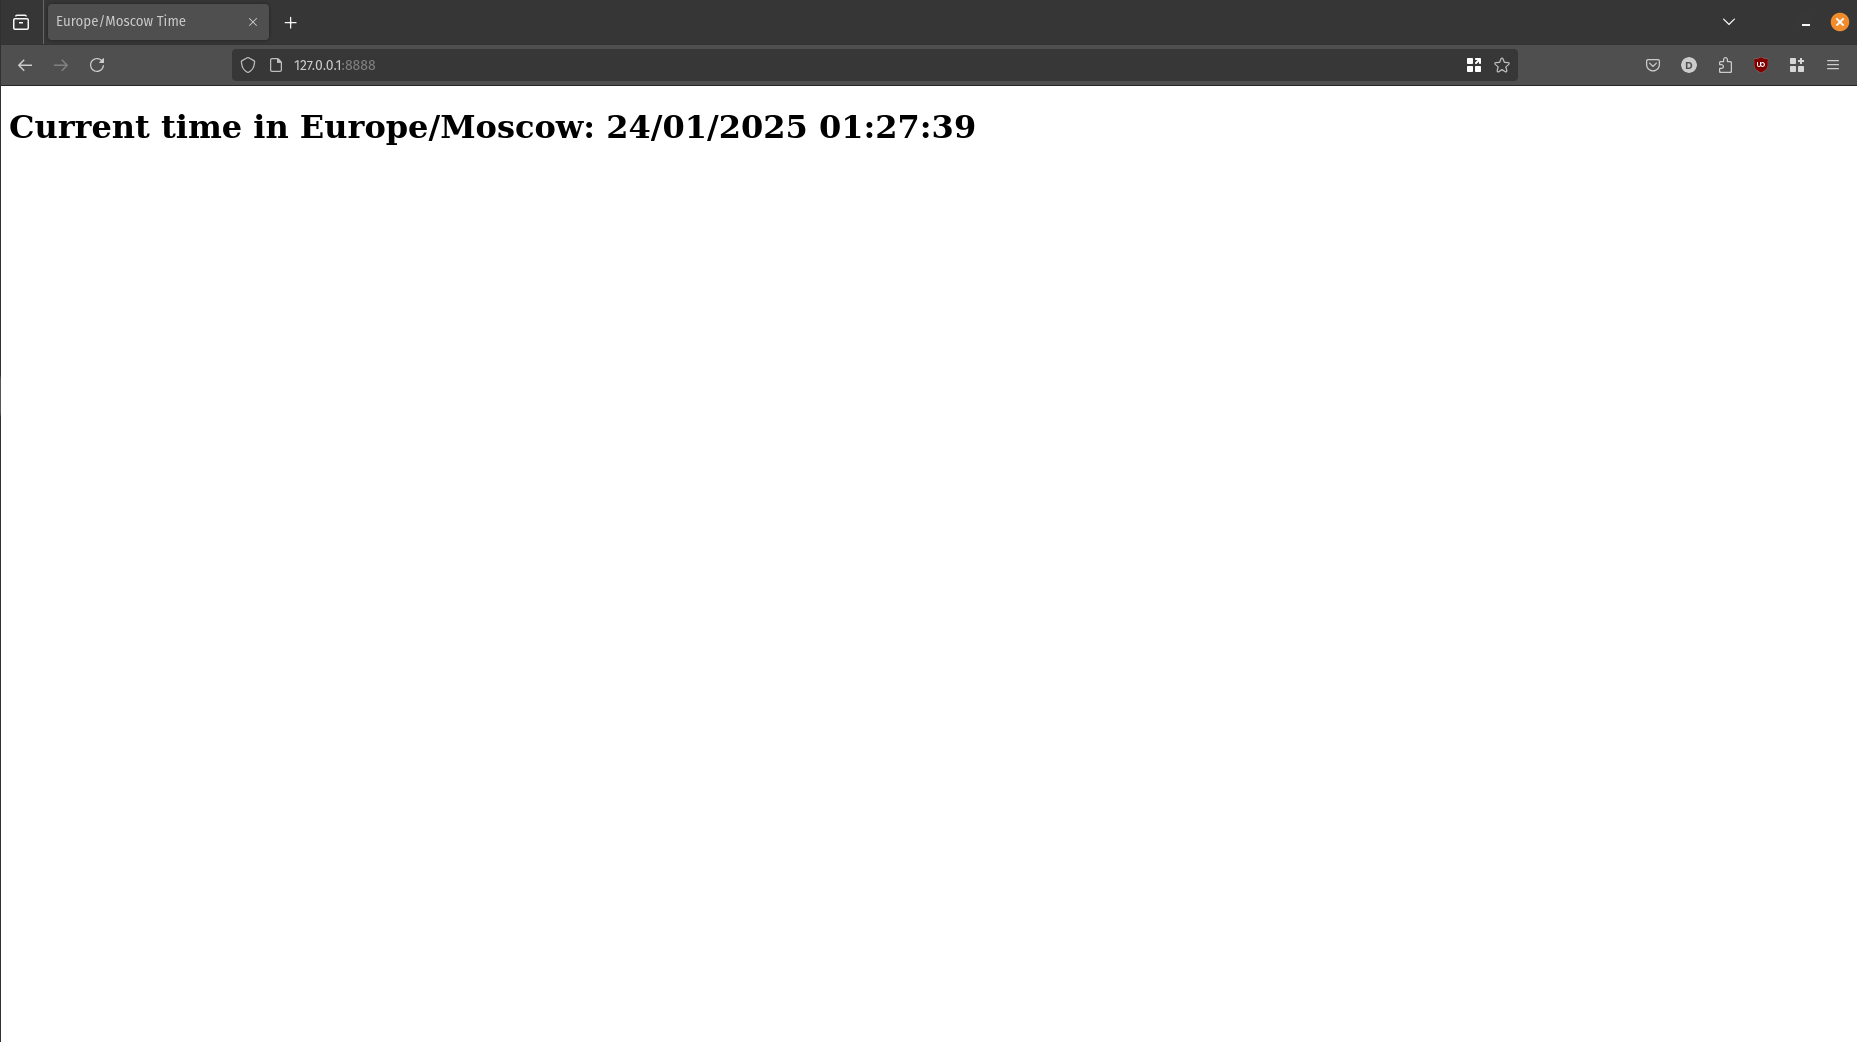
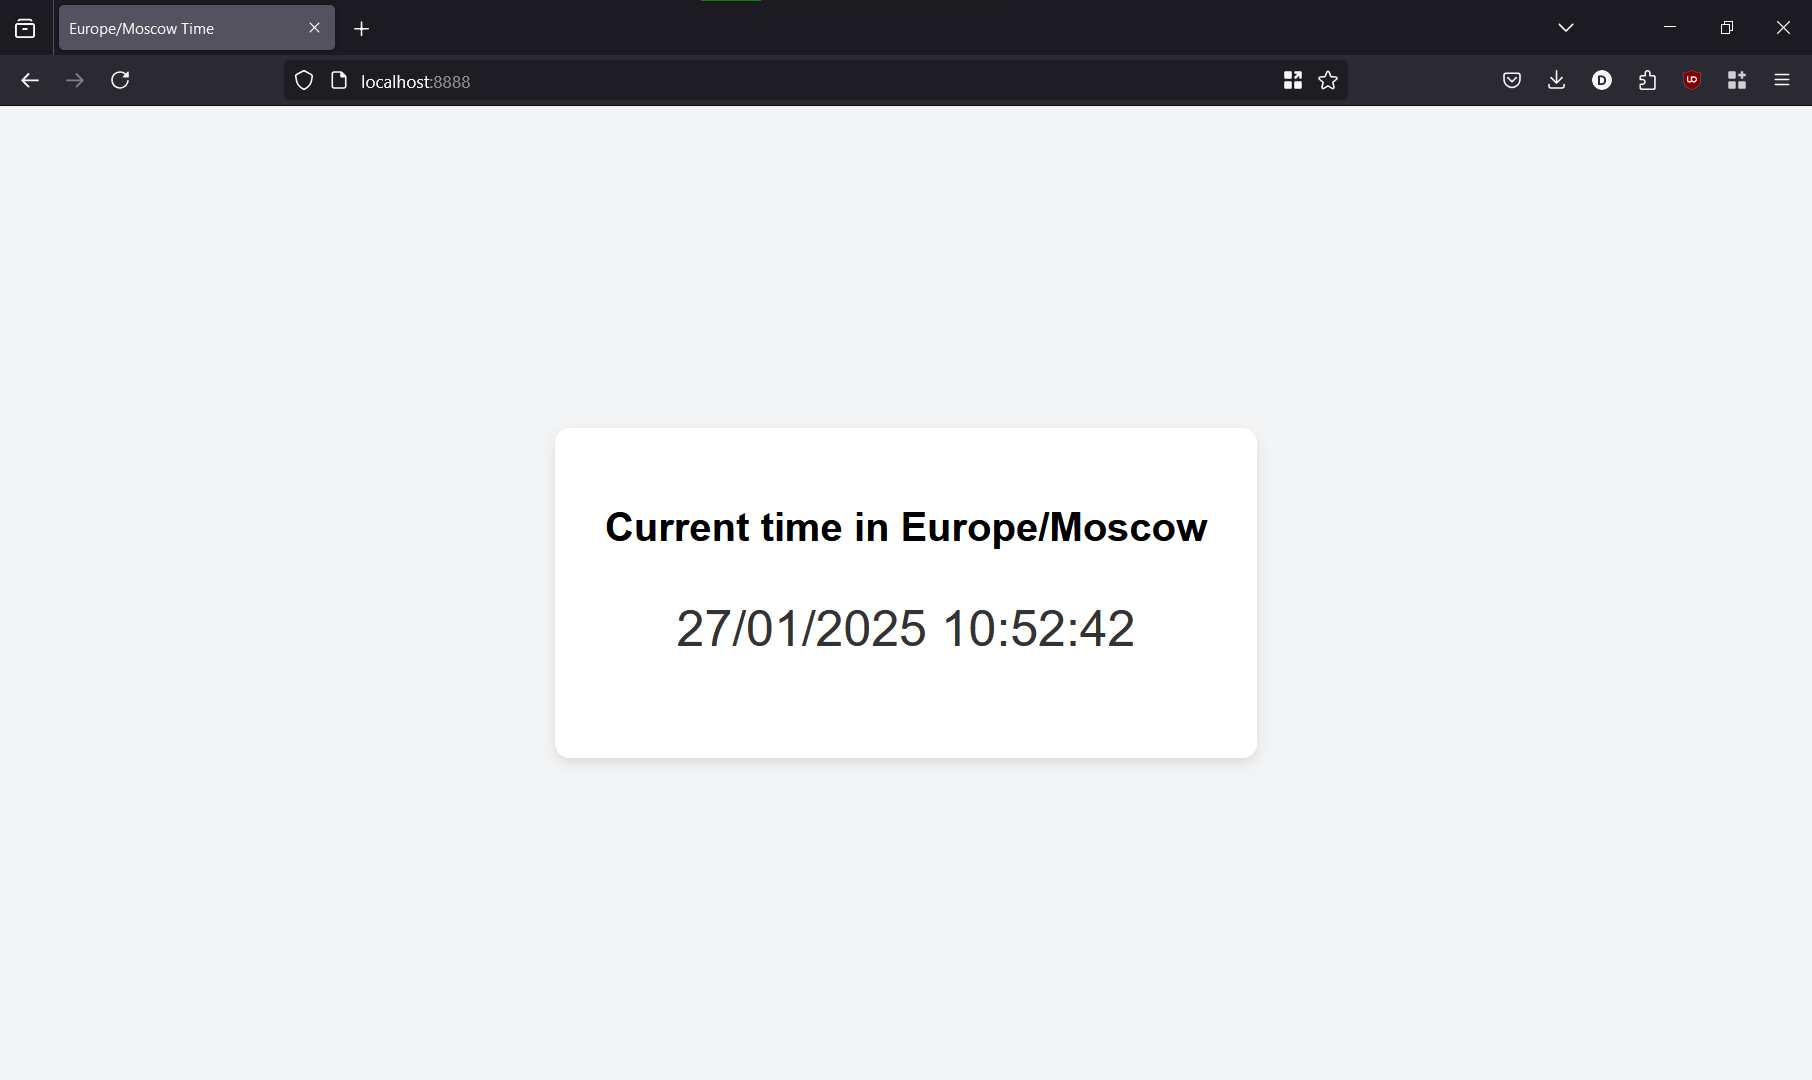
Changed style for time

diff --git a/app_python/src/templates/index.html b/app_python/src/templates/index.html
@@ -11,7 +11,7 @@
 <body>
     <div class="container">
         <h1>Current time in {{ timezone }}</h1>
-        <p>{{ formatted_time }}</p>
+        <p id="formatted_time">{{ formatted_time }}</p>
     </div>
 </body>
 

diff --git a/app_python/src/static/css/style.css b/app_python/src/static/css/style.css
@@ -15,3 +15,8 @@ body {
     border-radius: 12px;
     box-shadow: 0px 4px 10px rgba(0, 0, 0, 0.1);
 }
+
+#formatted_time {
+    font-size: 2.5em;
+    color: #333;
+}
